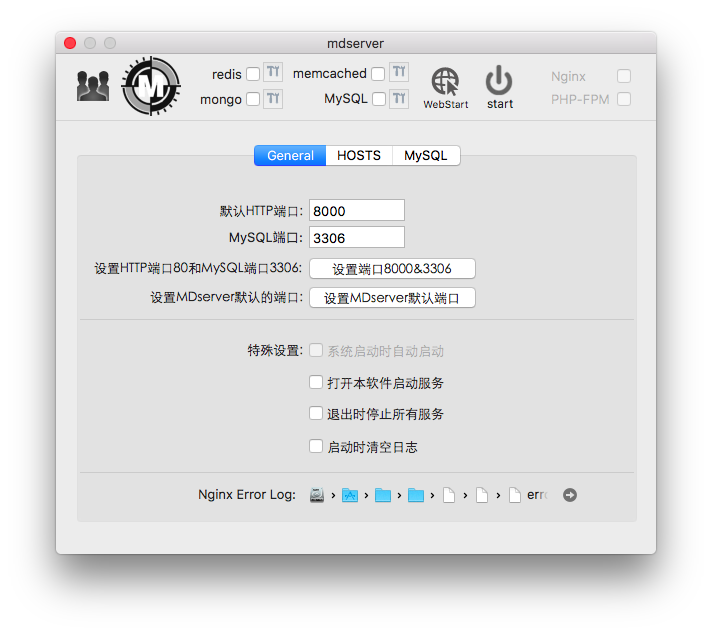
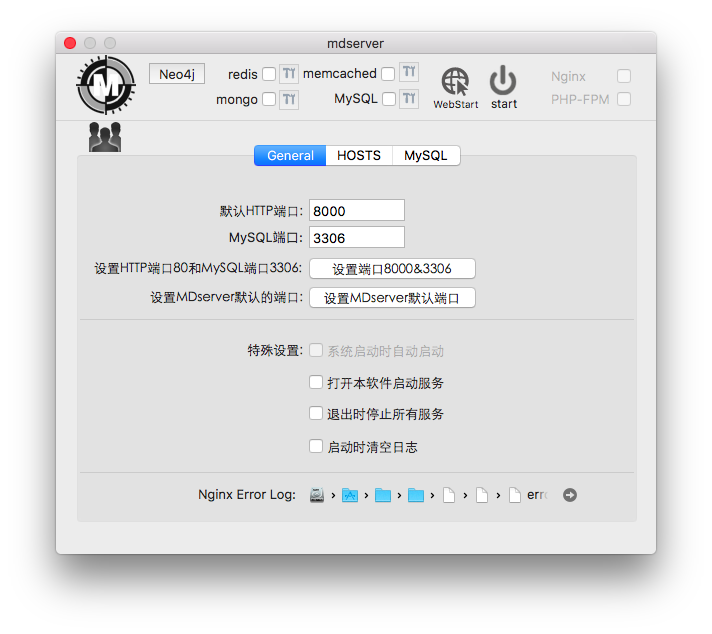
2.3.2
2.3.2

Changed region(s): [[0.0927, 0.0899, 0.7416, 0.2397]]

diff --git a/README.md b/README.md
@@ -1,4 +1,4 @@
-### mdserver(mac版) 2.3.0
+### mdserver(mac版) 2.3.2
 mac上高度可定制的PHP开发环境,集成必要的扩展,方便使用。
 (pkg安装方式),安装方便,是你Mac上的PHP开发利器。
 - 加入redis,mongo,phalcon,yaf,swoole框架。
@@ -7,13 +7,11 @@ mac上高度可定制的PHP开发环境,集成必要的扩展,方便使用。
 - PHP版本切换功能。
 - MySQL5.6。
 - openresty支持lua开发
+- neo4j(图数据)
 
 ```
 php55
 [redis,memecached,mongo,phalcon,yaf,swoole,xhprof]
-
-php70
-[redis,memecached,yaf,swoole,md_xhprof]
 
 php71
 [redis,memecached,yaf,swoole,md_xhprof]
